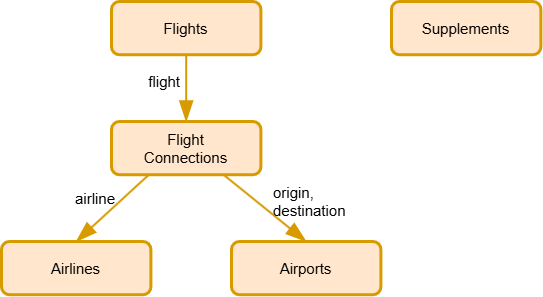
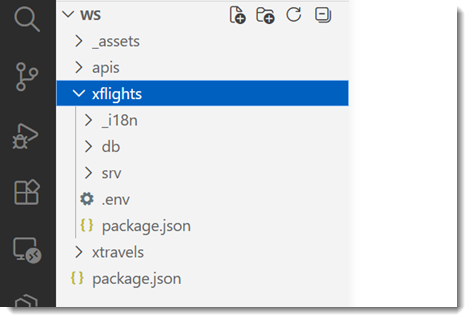
screenshots

diff --git a/exercises/ex3/README.md b/exercises/ex3/README.md
@@ -72,20 +72,20 @@ In the xflights terminal, execute
 * (optional) Slightly modify the data in the _data/...csv_ files. Later, this will allow
   you to see whether you view data coming from local mock tables fed by these _csv_ files,
   or data coming from the xflights tables. For example, prepend the names of Airlines with
-  "(test)", like so:  
+  "(test-syn)", like so:  
     _airlines.csv_
     ```csv 
       ID,modifiedAt,name,icon,currency_code
-      GA,2026-07-07T14:30:11.830Z,(test) Green Albatros,https://...,CAD
-      FA,2026-07-07T14:30:11.830Z,(test) Fly Africa,https://...,ZAR
+      GA,2026-07-07T14:30:11.830Z,(test-syn) Green Albatros,https://...,CAD
+      FA,2026-07-07T14:30:11.830Z,(test-syn) Fly Africa,https://...,ZAR
     ...
     ```
     _airports.csv_
     ```csv
     ID,modifiedAt,name,city,country_code
-    FRA,2026-07-06T10:08:58.522Z,(test) Frankfurt Airport,Frankfurt/Main,DE
-    HAM,2026-07-06T10:08:58.522Z,(test) Hamburg Airport,Hamburg,DE
-    MUC,2026-07-06T10:08:58.522Z,(test) Munich Airport,Munich,DE
+    FRA,2026-07-06T10:08:58.522Z,(test-syn) Frankfurt Airport,Frankfurt/Main,DE
+    HAM,2026-07-06T10:08:58.522Z,(test-syn) Hamburg Airport,Hamburg,DE
+    MUC,2026-07-06T10:08:58.522Z,(test-syn) Munich Airport,Munich,DE
     ...
     ```
 
@@ -126,6 +126,10 @@ After completing these steps, you will have deployed the database model of the x
     ```sh
     cds deploy --to hana
     ```
+    There should be a message like
+    ```log
+    successfully finished deployment
+    ```
 
 
 
@@ -152,17 +156,19 @@ the entities of the new API package. The rest of the model can stay as is.
     ```
 
 
-2. In the xtravels terminal, start the app to test it locally:
+3. In the xtravels terminal, start the app to test it locally:
     ```sh
     cds watch
     ```
 
-3. Open the automatically served index page in your browser at [localhost:4004](http://localhost:4004/)
-   and click .... 
+3. Go to the index page [localhost:4004](http://localhost:4004/) of the xtravels app,
+   start the [xtravels web app](http://localhost:4004/travels/webapp/index.html),
+   and click a travel to get to the details page.
    The imported service is mocked and we again see flights data from _csv_ files, this time from the new API package.
 
+    <br>![](/exercises/ex3/images/03_04_0010.png)
 
-__TODO__ may prefix test datsa with "test-rep" and "tes-syn" ?
+4. Stop `cds watch` in the xtravels terminal by typing `Ctrl+C`.
 
 
 
@@ -193,16 +199,18 @@ After completing these steps, the xtravels app is ready to be deployed to HANA.
     and have a look at the generated HDI files in folder _xtravels/gen/db_:
     ```
     gen/db
-    ├── src/gen
-    |   ├── sap.capire.flights.data_syn.Airlines_#proxy.hdbtable
-    |   ├── sap.capire.flights.data_syn.Airports_#proxy.hdbtable
-    |   ├── sap.capire.flights.data_syn.Flights_#proxy.hdbtable
-    |   ├── sap.capire.flights.data_syn.Supplements_#proxy.hdbtable
-    |   ├── sap.capire.flights.data_syn.SupplementTypes_#proxy.hdbtable
-    |   ├── sap.capire.flights.data_syn.hdbgrants
-    |   └── sap.capire.flights.data_syn.hdbsynonym
-    └── cfg/gen
-        └── sap.capire.flights.data_syn.hdbsynonymconfig
+    ├── cfg/gen
+    |   ├── ...
+    |   └── sap.capire.flights.data_syn.hdbsynonymconfig
+    └── src/gen
+        ├── ...
+        ├── sap.capire.flights.data_syn.Airlines_#proxy.hdbtable
+        ├── sap.capire.flights.data_syn.Airports_#proxy.hdbtable
+        ├── sap.capire.flights.data_syn.Flights_#proxy.hdbtable
+        ├── sap.capire.flights.data_syn.Supplements_#proxy.hdbtable
+        ├── sap.capire.flights.data_syn.SupplementTypes_#proxy.hdbtable
+        ├── sap.capire.flights.data_syn.hdbgrants
+        └── sap.capire.flights.data_syn.hdbsynonym
     ```
 
 For each entity in the imported service we find a mock table and a synonym definition
@@ -244,10 +252,19 @@ xflights HDI container.
     cds watch --profile hybrid
     ```
 
-4. See output ...
+4. Observe the output of `cds watch`. This time no local database is started, but the app
+   is connected to HANA:
 
+    <br>![](/exercises/ex3/images/03_06_0010.png)
 
-5. Stop `cds watch` in the xtravels terminal by typing `Ctrl+C`.
+5. Go to the index page [localhost:4004](http://localhost:4004/) of the xtravels app,
+start the [xtravels web app](http://localhost:4004/travels/webapp/index.html),
+and click a travel to get to the details page.
+We have deployed without _.hdbsynonymconfig_, thus we see the data from the mock table:
+
+    <br>![](/exercises/ex3/images/03_06_0020.png)
+
+6. Stop `cds watch` in the xtravels terminal by typing `Ctrl+C`.
 
 
 
@@ -289,15 +306,17 @@ in the previous section for this.
     cds watch --profile hybrid
     ```
 
-6. See output ...
+6. In the browser, refresh the travel detail page. You now see data directly coming from the
+   sflight's database via synonyms:
 
+    <br>![](/exercises/ex3/images/03_07_0010.png)
 
-7. Stop `cds watch` in the xtravels terminal by typing `Ctrl+C`.
 
 
 ## Exercise 3.8 - Cleanup
 
-__TODO__ needed ?
+Stop `cds watch` in the xtravels terminal by typing `Ctrl+C`.
+
 
 
 ## Summary

diff --git a/exercises/ex2/README.md b/exercises/ex2/README.md
@@ -17,13 +17,12 @@ created in the [Preparation](../ex0/README.md) section.
 
 Your workspace already contains a folder _xtravels_ with an
 almost complete xtravels app, including a Fiori UI in _xtravels/app/travels_.
-Note that the model is "broken". In _xtravels/db/schema.cds_ there are some incomplete association definitions.
-The editor may show some error indicators, e.g. red underlines in this file. Don't worry about them, they
-will disappear when we add the missing parts.
-
 
 <br>![xtravels folder structure](/exercises/ex2/images/02_01_0010.png)
 
+Note that the model is "broken". In _xtravels/db/schema.cds_ there are some incomplete association definitions.
+The editor may show some error indicators, e.g. red underlines in this file. Don't worry about them, they
+will disappear when we add the missing parts.
 
 1. Have a look at the main entities of xtravels in file _xtravels/db/schema.cds_:
     * Travels:  
@@ -68,7 +67,7 @@ that you have exported from the xflights app in the previous exercise.
     
     Due to the workspace definition in _package.json_ (the one in the _ws_ folder),
     the exported API package in _apis_ is used to satisfy this new dependency.
-    In _node\_modules_, you can find a symbolic link for _xflights-data_ pointing
+    In _node\_modules_, you can find a symbolic link for _@capire/xflights-data_ pointing
     to _apis/data-service_.
 
 
@@ -143,7 +142,7 @@ imported entities via the consumption views as if they were local.
 We use the imported entities as association targets in _xtravels/db/schema.cds_.
 In addition, we expose filght information directly in the travel service.
 
-1. In file _xtravels/db/schema.cds_, below the `using directives at the top of the file, add
+1. In file _xtravels/db/schema.cds_, below the `using` directive at the top of the file, add
     ```cds
     using { sap.capire.xflights as x } from '../apis/xflights';
     ```
@@ -162,7 +161,7 @@ In addition, we expose filght information directly in the travel service.
     }
     ```
 
-3. In file _xtravels/srv/travels-service.cds_, below the `using directives at the top of the file, add
+3. In file _xtravels/srv/travels-service.cds_, below the `using` directive at the top of the file, add
     ```cds
     using { sap.capire.xflights as x } from '../apis/xflights';
     ```
@@ -222,6 +221,7 @@ and are filled with _csv_ data from the imported package:
 
     <br>![cds watch output](/exercises/ex2/images/02_05_0010.png)
 
+<!--
     ```log
     [cds] - connect to db > sqlite { url: ':memory:' }
     (node:34040) ExperimentalWarning: SQLite is an experimental feature and might change at any time
@@ -231,6 +231,7 @@ and are filled with _csv_ data from the imported package:
       > init from ..\apis\data-service\data\sap.capire.flights.data.Airports.csv 
       > init from ..\apis\data-service\data\sap.capire.flights.data.Airlines.csv 
     ```
+-->
 
 5. Open the automatically served index page in your browser at [localhost:4004](http://localhost:4004/).
 
@@ -241,10 +242,10 @@ You should see a full fledged xtravels app.
 
 7. Click on any travel to open the details page with the flight bookings.
 In the fields with the flight information (e.g. "Airline") you see the local test data from
-the imported API package (prefix "test"). These fields automatically got nice labels,
+the imported API package (prefix "test-rep"). These fields automatically got nice labels,
 which also came from the API package via the `@title` annotations and the respective texts.
 
-__TODO__ screenshot
+    <br>![xtravels ui](/exercises/ex2/images/02_05_0030.png)
 
 
 
@@ -285,18 +286,9 @@ of this service).
 
     <br>![cds watch output](/exercises/ex2/images/02_06_0010.png)
 
-    ```log
-    [cds] - connect to sap.capire.flights.data > hcql { url: 'http://localhost:4005/hcql/data' }
-    ```
-
     The data for `Flights` and `Supplements` is replicated:
 
     <br>![cds watch output](/exercises/ex2/images/02_06_0020.png)
-
-    ```log
-    Replicated 44 entries { for: 'sap.capire.xflights.Flights', via: 'hcql' }
-    Replicated 49 entries { for: 'sap.capire.xflights.Supplements', via: 'hcql' }
-    ```
 
 5. Observe the output of `cds watch` in the xflights terminal.  
 Here you can see the incoming calls (from xtravels) to `GET` the
@@ -304,6 +296,7 @@ data from entities `Flights` and `Supplements`.
 
     <br>![](/exercises/ex2/images/02_06_0030.png)
 
+<!--
     ```log
     [hcql] - POST /hcql/data/ {
       SELECT: {
@@ -340,13 +333,14 @@ data from entities `Flights` and `Supplements`.
       }
     }
     ```
-
+-->
 
 6. Go to the index page [localhost:4004](http://localhost:4004/) of the xtravels app,
 start the [xtravels web app](http://localhost:4004/travels/webapp/index.html),
 and click a travel to get to the details page.
-You now see the data directly coming from xflights: there is no "(test)" prefix any more.
+You now see the data directly coming from xflights: there is no "(test-rep)" prefix any more.
 
+    <br>![](/exercises/ex2/images/02_06_0040.png)
 
 
 ## Exercise 2.7 - Cleanup

diff --git a/exercises/ex1/README.md b/exercises/ex1/README.md
@@ -8,6 +8,10 @@ created in the [Preparation](../ex0/README.md) section.
 
 ## Exercise 1.1 - Inspect xflight's domain model
 
+Your workspace already contains a folder xflights with a complete app.
+
+<br>![xflights entity graph](/exercises/ex1/images/01_01_0010.png)
+
 Look at _xflights/db/schema.cds_. Here are the basic entities for flight information:
 
 * Airlines  
@@ -22,7 +26,7 @@ Look at _xflights/db/schema.cds_. Here are the basic entities for flight informa
 * Supplements  
   Things you can add to a flight, like additional luggage, food, drinks.
 
-<br>![xflights entity graph](/exercises/ex1/images/01_01_0010.png)
+<br>![xflights entity graph](/exercises/ex1/images/01_01_0020.png)
 
 Corresponding initial data can be found in the _csv_ files in folder _xflights/db/data_.
 

diff --git a/exercises/ex4/README.md b/exercises/ex4/README.md
@@ -56,7 +56,7 @@ The API is described as "CSN Interop JSON", which can be downloaded from here.
 2. Download the CSN Interop JSON.
 
     If you should not be able to download the CSN Interop JSON for any reason,
-    you can use [_assets/ex3/sap-s4com-Customer-v1.json_](../../assets/ex3/sap-s4com-Customer-v1.json).
+    you can use [_assets/ex4/sap-s4com-Customer-v1.json_](../../assets/ex4/sap-s4com-Customer-v1.json).
 
 3. Copy the file to folder _xtravels_ in your workspace.
 
@@ -204,7 +204,7 @@ test the xtravels app with the Data Product entities being mocked by local
 tables in a SQLite in-memory database.
 
 1. Add some test data: copy file
-[assets/ex3/sap.s4com-Customer.v1.Customer.csv](../../assets/ex3/sap.s4com-Customer.v1.Customer.csv)
+[assets/ex4/sap.s4com-Customer.v1.Customer.csv](../../assets/ex4/sap.s4com-Customer.v1.Customer.csv)
 to folder _xtravels/db/data_. This provides some test data for mocking the
 `Customer` entity.
 